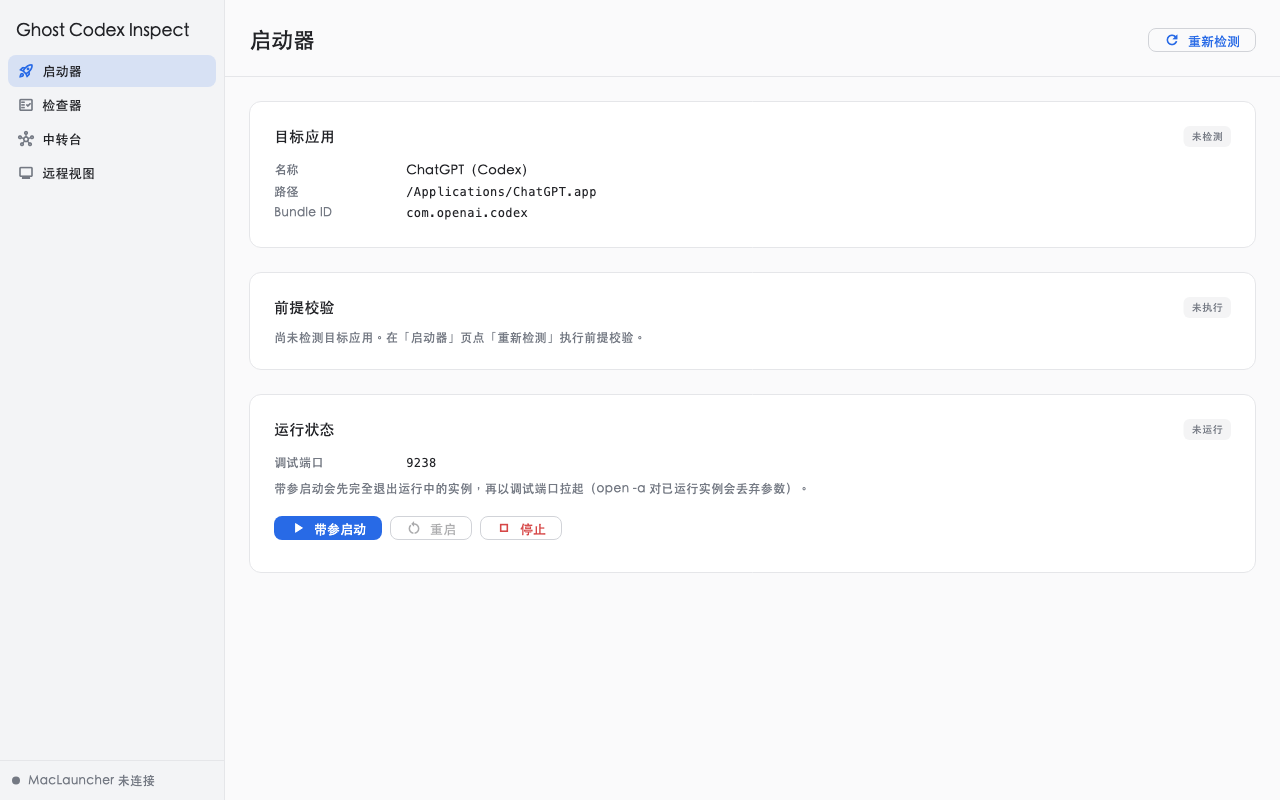
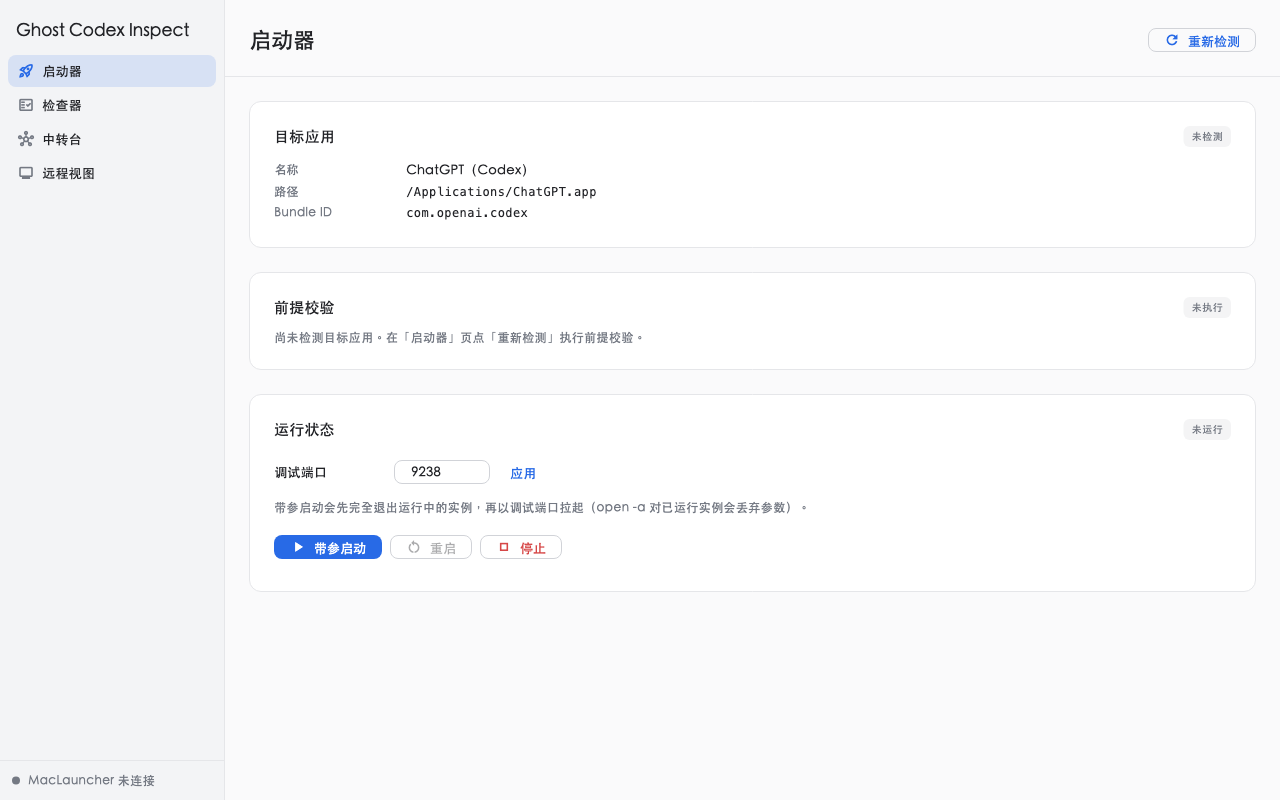
feat(#26): CDP 调试端口可配置并持久化
- HostController.debugPort 从 profile 固定值改为可设置字段：
  setDebugPort(1024-65535 校验) + loadSettings() 启动时恢复，
  持久化走 shared_preferences（gci.debugPort）
- 带参启动/重启/CDP 探测/会话 attach 全部跟随当前端口
- 启动器页「调试端口」从只读展示改为可编辑输入框（应用/回车生效）
- 场景：多实例并存时避开 9238 冲突
- golden 截图重生成（含 #22/#25 界面变化）
- 3 个新单测（默认值/校验+持久化/恢复+非法回落）

Changed region(s): [[0.1875, 0.5625, 0.625, 0.7188]]

diff --git a/lib/ui/host_controller.dart b/lib/ui/host_controller.dart
@@ -12,6 +12,7 @@ import 'dart:async';
 
 import 'package:flutter/foundation.dart';
 import 'package:maclauncher_sdk/maclauncher_sdk.dart';
+import 'package:shared_preferences/shared_preferences.dart';
 
 import '../cdp/cdp.dart';
 import '../dom/dom.dart';
@@ -48,6 +49,8 @@ class HostController extends ChangeNotifier {
        inspector = inspector ?? Inspector(),
        profile = profile ?? TargetProfile.chatGpt,
        _cdpConnector = cdpConnector ?? connectCdp {
+    // 注意：构造器体内 profile 是初始化形参（可空），需 this. 走字段。
+    _debugPort = this.profile.defaultDebugPort;
     _sdkStateSub = this.launcher.states.listen((status) {
       sdkStatus = status;
       notifyListeners();
@@ -109,8 +112,33 @@ class HostController extends ChangeNotifier {
   /// 目标是否在运行（按进程发现）。
   bool get targetRunning => runningPids.isNotEmpty;
 
-  /// 生效调试端口（profile 默认值；一期不可在 UI 改）。
-  int get debugPort => profile.defaultDebugPort;
+  /// 生效调试端口：profile 默认值，loadSettings() 可覆盖，UI 可改。
+  static const String _kDebugPortKey = 'gci.debugPort';
+
+  /// 当前使用的 CDP 调试端口（可在启动器页修改并持久化，#26）。
+  int get debugPort => _debugPort;
+  late int _debugPort;
+
+  /// 修改调试端口（1024-65535），持久化到本机设置。
+  Future<void> setDebugPort(int port) async {
+    if (port < 1024 || port > 65535) {
+      throw ArgumentError('端口须在 1024-65535 之间：$port');
+    }
+    _debugPort = port;
+    notifyListeners();
+    final prefs = await SharedPreferences.getInstance();
+    await prefs.setInt(_kDebugPortKey, port);
+  }
+
+  /// 启动时加载持久化设置（端口等）。
+  Future<void> loadSettings() async {
+    final prefs = await SharedPreferences.getInstance();
+    final port = prefs.getInt(_kDebugPortKey);
+    if (port != null && port >= 1024 && port <= 65535) {
+      _debugPort = port;
+      notifyListeners();
+    }
+  }
 
   Future<void> _run(String action, Future<void> Function() body) async {
     if (busy) return;
@@ -142,7 +170,7 @@ class HostController extends ChangeNotifier {
   /// 带参启动目标应用。[confirmed] 必须来自 UI 确认对话框。
   Future<void> launchTarget({required bool confirmed}) =>
       _run('带参启动', () async {
-        await appLauncher.launch(profile, confirmRealTarget: confirmed);
+        await appLauncher.launch(profile, debugPort: _debugPort, confirmRealTarget: confirmed);
         await refreshRunningState();
       });
 

diff --git a/lib/ui/launcher_page.dart b/lib/ui/launcher_page.dart
@@ -246,7 +246,7 @@ class _RunStateCard extends StatelessWidget {
               value: controller.runningPids.join(', '),
               mono: true,
             ),
-          FieldRow(label: '调试端口', value: '${controller.debugPort}', mono: true),
+          _DebugPortEditor(controller: controller),
           const SizedBox(height: 8),
           Text(
             '带参启动会先完全退出运行中的实例，再以调试端口拉起'
@@ -307,6 +307,67 @@ class _RunStateCard extends StatelessWidget {
           ),
         ],
       ),
+    );
+  }
+}
+
+/// 调试端口编辑行（#26）：可修改并持久化，供多实例并存时避开端口冲突。
+class _DebugPortEditor extends StatefulWidget {
+  const _DebugPortEditor({required this.controller});
+
+  final HostController controller;
+
+  @override
+  State<_DebugPortEditor> createState() => _DebugPortEditorState();
+}
+
+class _DebugPortEditorState extends State<_DebugPortEditor> {
+  late final TextEditingController _text =
+      TextEditingController(text: '${widget.controller.debugPort}');
+  String? _error;
+
+  @override
+  void dispose() {
+    _text.dispose();
+    super.dispose();
+  }
+
+  Future<void> _apply() async {
+    final port = int.tryParse(_text.text.trim());
+    if (port == null || port < 1024 || port > 65535) {
+      setState(() => _error = '端口须是 1024-65535 的整数');
+      return;
+    }
+    await widget.controller.setDebugPort(port);
+    setState(() => _error = null);
+  }
+
+  @override
+  Widget build(BuildContext context) {
+    final theme = Theme.of(context);
+    return Row(
+      children: [
+        SizedBox(
+          width: 120,
+          child: Text('调试端口', style: theme.textTheme.bodyMedium),
+        ),
+        SizedBox(
+          width: 96,
+          child: TextField(
+            controller: _text,
+            keyboardType: TextInputType.number,
+            style: theme.textTheme.bodyMedium,
+            decoration: InputDecoration(
+              isDense: true,
+              errorText: _error,
+              border: const OutlineInputBorder(),
+            ),
+            onSubmitted: (_) => _apply(),
+          ),
+        ),
+        const SizedBox(width: 8),
+        TextButton(onPressed: _apply, child: const Text('应用')),
+      ],
     );
   }
 }

diff --git a/test/ui/host_controller_test.dart b/test/ui/host_controller_test.dart
@@ -5,7 +5,9 @@ library;
 import 'dart:async';
 
 import 'package:flutter_test/flutter_test.dart';
+import 'package:shared_preferences/shared_preferences.dart';
 import 'package:ghost_codex_inspect/cdp/cdp.dart';
+import 'package:ghost_codex_inspect/launcher/launcher.dart';
 import 'package:ghost_codex_inspect/ui/host_controller.dart';
 
 class _FakeCdpPage implements CdpPage {
@@ -196,5 +198,39 @@ void main() {
     expect(controller.shellTargets, isEmpty);
     expect(controller.activeShellTargetId, isNull);
     await controller.switchTarget('shell-1'); // 无会话 no-op，不崩溃
+  });
+
+  group('调试端口设置（#26）', () {
+    test('默认取 profile.defaultDebugPort', () {
+      final c = HostController(autoRefresh: false);
+      addTearDown(c.dispose);
+      expect(c.debugPort, TargetProfile.chatGpt.defaultDebugPort);
+    });
+
+    test('setDebugPort 校验范围并持久化', () async {
+      SharedPreferences.setMockInitialValues({});
+      final c = HostController(autoRefresh: false);
+      addTearDown(c.dispose);
+      await c.setDebugPort(9300);
+      expect(c.debugPort, 9300);
+      final prefs = await SharedPreferences.getInstance();
+      expect(prefs.getInt('gci.debugPort'), 9300);
+      expect(() => c.setDebugPort(80), throwsArgumentError);
+      expect(() => c.setDebugPort(70000), throwsArgumentError);
+    });
+
+    test('loadSettings 读取持久化端口，非法值回落默认', () async {
+      SharedPreferences.setMockInitialValues({'gci.debugPort': 9301});
+      final c = HostController(autoRefresh: false);
+      addTearDown(c.dispose);
+      await c.loadSettings();
+      expect(c.debugPort, 9301);
+
+      SharedPreferences.setMockInitialValues({'gci.debugPort': 80});
+      final c2 = HostController(autoRefresh: false);
+      addTearDown(c2.dispose);
+      await c2.loadSettings();
+      expect(c2.debugPort, TargetProfile.chatGpt.defaultDebugPort);
+    });
   });
 }

diff --git a/macos/Flutter/GeneratedPluginRegistrant.swift b/macos/Flutter/GeneratedPluginRegistrant.swift
@@ -6,7 +6,9 @@ import FlutterMacOS
 import Foundation
 
 import flutter_inappwebview_macos
+import shared_preferences_foundation
 
 func RegisterGeneratedPlugins(registry: FlutterPluginRegistry) {
   InAppWebViewFlutterPlugin.register(with: registry.registrar(forPlugin: "InAppWebViewFlutterPlugin"))
+  SharedPreferencesPlugin.register(with: registry.registrar(forPlugin: "SharedPreferencesPlugin"))
 }

diff --git a/lib/main.dart b/lib/main.dart
@@ -33,7 +33,7 @@ class _GhostCodexInspectAppState extends State<GhostCodexInspectApp> {
   void initState() {
     super.initState();
     if (widget.autoConnect) {
-      _controller.connectSdk();
+      _controller.loadSettings().then((_) => _controller.connectSdk());
     }
   }
 
